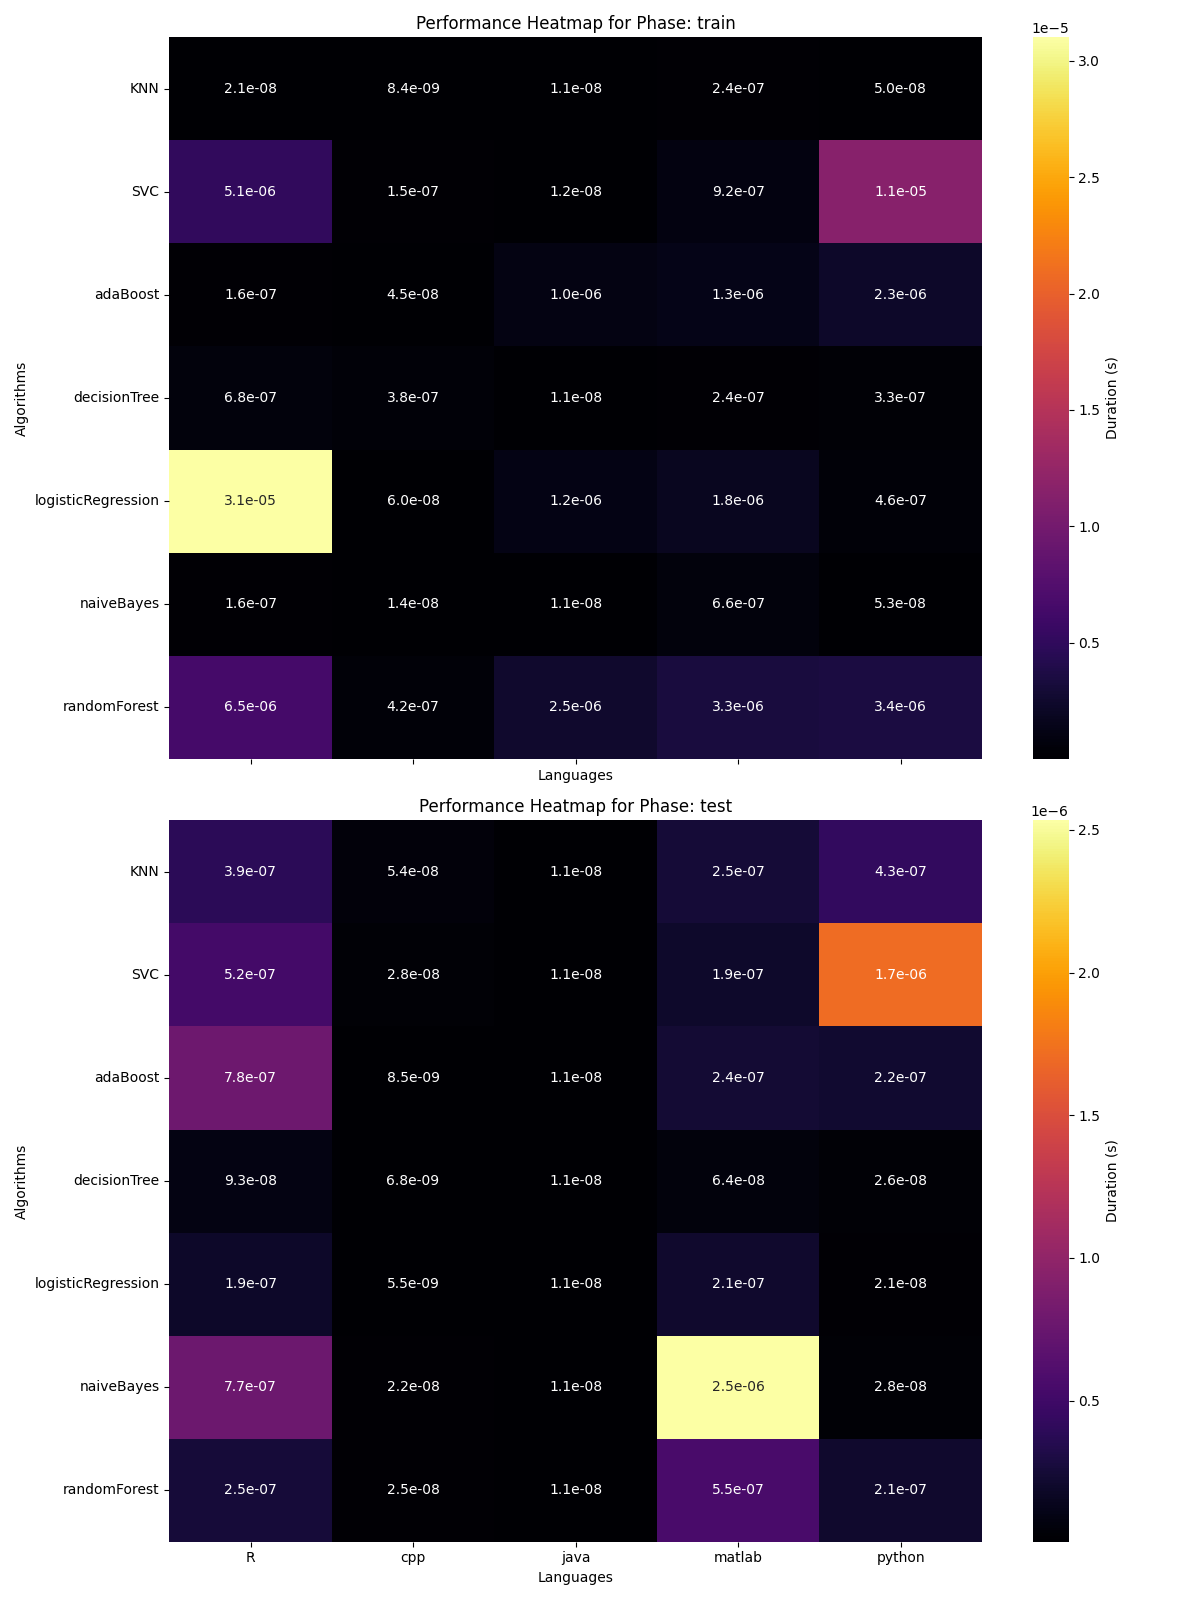
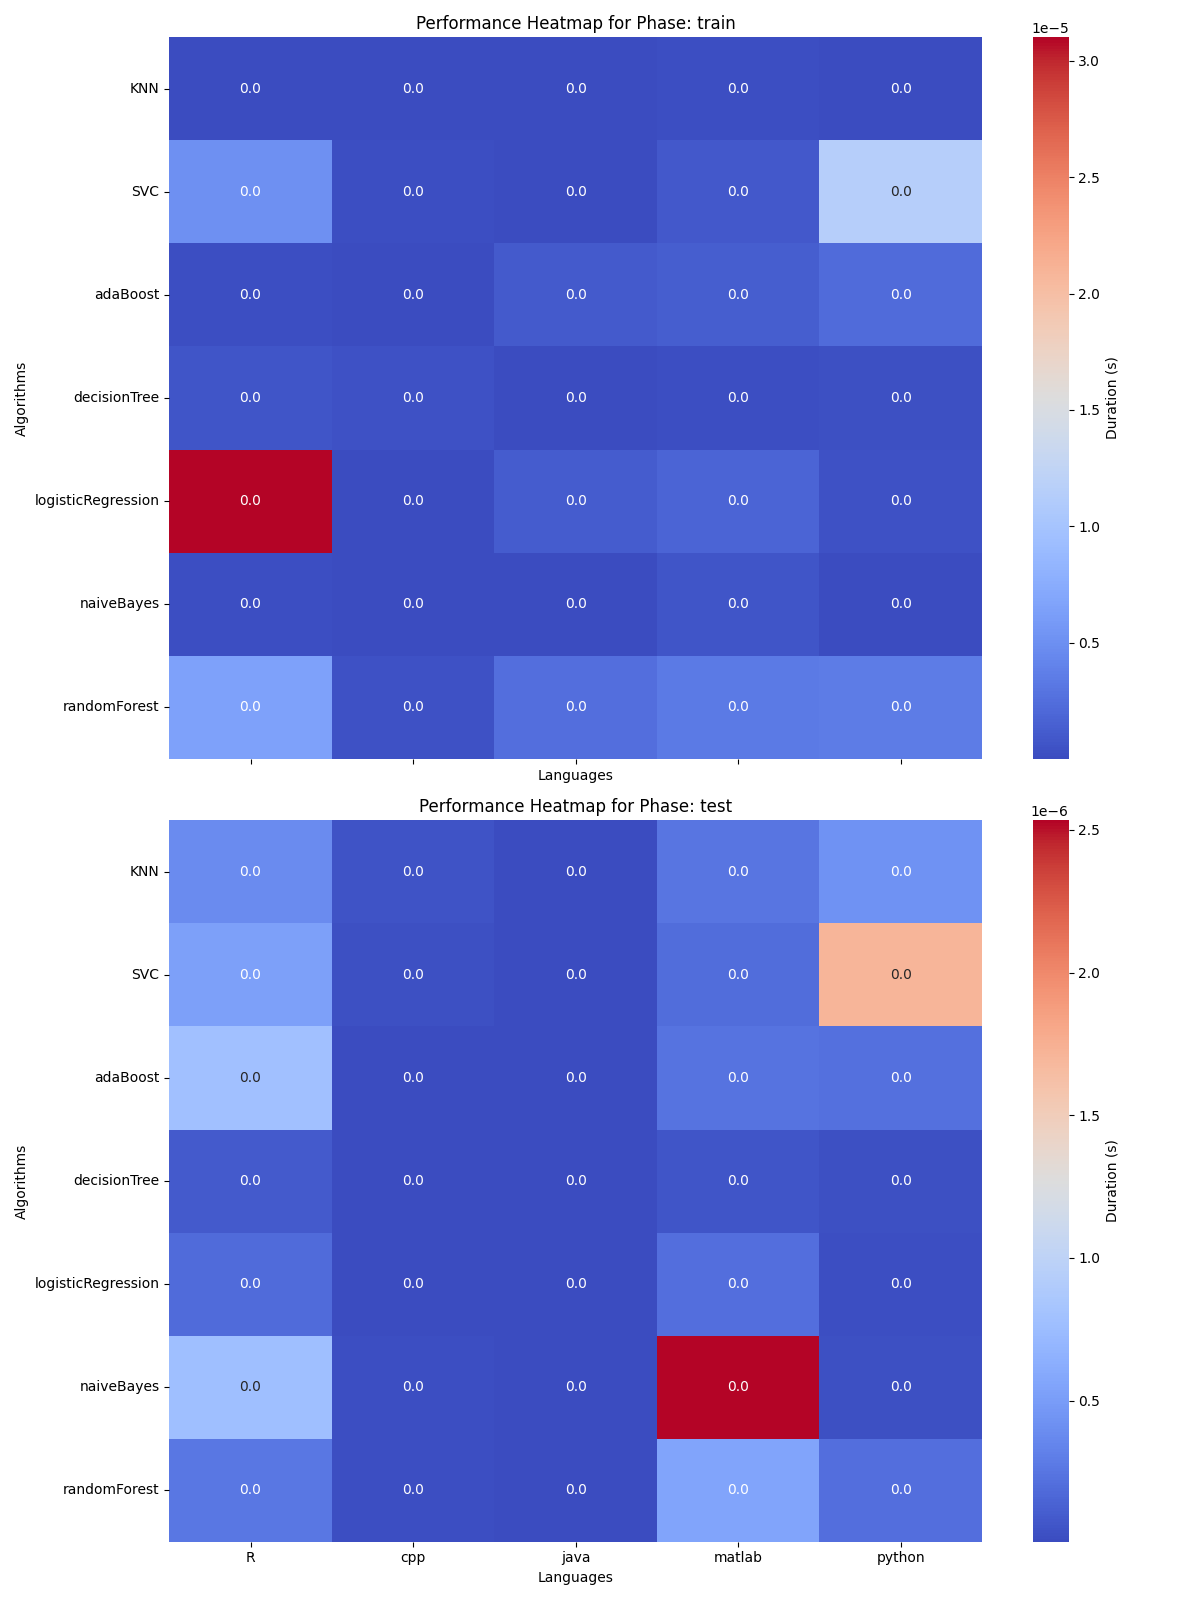
refined plots

diff --git a/src/newHandlePlotForFun.py b/src/newHandlePlotForFun.py
@@ -75,11 +75,19 @@ def plot_performance_heatmap(df, language_col, algorithm_col, duration_col,
     for ax, phase in zip(axes, ['train', 'test']):
         # Filter for the phase
         phase_df = df[df['phase'] == phase]
+
+        # Pivot table for heatmap
         pivot_table = phase_df.pivot_table(values=duration_col, index=algorithm_col, columns=language_col,
                                            aggfunc='mean')
+        pivot_table *= 1000  # Convert seconds to milliseconds
+
+
+
+        #pivot_table_log = np.log10(pivot_table)
 
         # Plot heatmap
-        sns.heatmap(pivot_table, annot=True, fmt=".1e", cmap="inferno", ax=ax, cbar_kws={'label': 'Duration (s)'})
+        sns.heatmap(pivot_table, annot=True, fmt=".1f", cmap="viridis", ax=ax,
+                    cbar_kws={'label': 'Milliseconds'})
 
         # Customize the axis
         ax.set_title(f"Performance Heatmap for Phase: {phase}")
@@ -88,7 +96,7 @@ def plot_performance_heatmap(df, language_col, algorithm_col, duration_col,
 
     plt.tight_layout()
     # Save the plot as an image file
-    plt.savefig(f"graphics/{title}.png")
+    plt.savefig(f"graphics/{title}_log.png")
 
     # Show the plot
     plt.show()
@@ -117,7 +125,7 @@ def plot_correlation_by_phase(df, cpu_energy_col, emissions_col, phase_col, lang
         phase_df = df[df[phase_col] == phase]
 
         sns.scatterplot(x=phase_df[cpu_energy_col], y=phase_df[emissions_col], hue=phase_df[language_col],
-                        palette='tab20', s=100, alpha=0.6, ax=ax)
+                        palette='tab20', s=50, alpha=0.4, ax=ax)
 
         # Aggiunta di una regressione polinomiale (grado 2) opzionale
         sns.regplot(x=phase_df[cpu_energy_col], y=phase_df[emissions_col], scatter=False, color='green', order=2,
@@ -136,7 +144,10 @@ def plot_correlation_by_phase(df, cpu_energy_col, emissions_col, phase_col, lang
 
         ax.set_title(f'{phase} Phase')
         ax.set_xlabel('CPU Energy (Joules)')
-        ax.set_ylabel('Emissions Kg(CO₂)')
+        if emissions_col == 'emissions':
+            ax.set_ylabel('Emissions Kg(CO₂)')
+        if emissions_col == 'duration':
+            ax.set_ylabel('Duration (s)')
         ax.annotate(f'Pearson: {pearson_corr:.2f}', xy=(0.05, 0.95), xycoords='axes fraction', fontsize=10, color='red')
         ax.annotate(f'Spearman: {spearman_corr:.2f}', xy=(0.05, 0.90), xycoords='axes fraction', fontsize=10,
                     color='blue')
@@ -242,14 +253,27 @@ def plot_time_series(df, language, dataset, algorithm, date_col, value_col, phas
     plt.show()
 
 
-def plot_time_series_all_algorithms(df, language, date_col, value_col, phase_col='phase', phase='train'):
-    # Filter the DataFrame based on the selected language and phase
+def plot_time_series_all_algorithms(df, language, date_col, value_col, phase_col='phase', phase='train', dataset="breastCancer"):
+    """
+    Plot time series data for all algorithms for a specific language and dataset in a given phase.
+
+    Parameters:
+    - df: DataFrame containing the data
+    - language: The programming language to filter
+    - dataset: The dataset to filter
+    - date_col: Column name for date/time
+    - value_col: Column name for the values to plot
+    - phase_col: Column name for phase (optional, default is 'phase')
+    - phase: Phase to filter (optional, default is 'test')
+    """
+    # Filter the DataFrame based on the selected language, dataset, and phase
     df_filtered = df[(df['language'] == language) &
+                     (df['dataset'] == dataset) &
                      (df[phase_col] == phase)].copy()  # Create a copy to avoid SettingWithCopyWarning
 
     # Check if filtering resulted in non-empty DataFrame
     if df_filtered.empty:
-        print(f"No data available for language: {language} in phase: {phase}")
+        print(f"No data available for language: {language}, dataset: {dataset} in phase: {phase}")
         return
 
     # Convert the timestamp column to datetime
@@ -289,7 +313,7 @@ def plot_time_series_all_algorithms(df, language, date_col, value_col, phase_col
         plt.plot(df_algo[date_col], df_algo[value_col], marker='o', linestyle='-', color=color,
                  label=f'{algorithm}')
 
-    plt.title(f'Emissions Over Time for All Algorithms in {language} (Phase: {phase})')
+    plt.title(f'Emissions Over Time for All Algorithms in {language} on Dataset {dataset} (Phase: {phase})')
     plt.xlabel('Date')
     plt.ylabel('Emissions (kg CO2)')
     plt.grid(True)
@@ -298,7 +322,7 @@ def plot_time_series_all_algorithms(df, language, date_col, value_col, phase_col
     plt.tight_layout()
 
     # Save the plot as an image file
-    plt.savefig(f'graphics/emissions_time_series_{language}_{phase}.png')
+    plt.savefig(f'graphics/emissions_time_series_{language}_{dataset}_{phase}.png')
 
     # Show the plot
     plt.show()
@@ -345,26 +369,104 @@ def plot_execution_time_by_language(df, language_col, algorithm_col, time_col, t
     plt.show()
 
 
+def plot_time_series_subplot(df, combinations, date_col, value_col, phase_col='phase'):
+    """
+    Plot time series data for multiple combinations in a grid of subplots, handling different scales.
+
+    Parameters:
+    - df: DataFrame containing the data
+    - combinations: List of tuples with (language, dataset, algorithm)
+    - date_col: Column name for date/time
+    - value_col: Column name for the values to plot
+    - phase_col: Column name for phase (optional, default is 'phase')
+    """
+    num_combinations = len(combinations)
+    num_cols = 2  # Number of columns for subplots
+    num_rows = (num_combinations + num_cols - 1) // num_cols  # Calculate number of rows needed
+
+    fig, axes = plt.subplots(nrows=num_rows, ncols=num_cols, figsize=(15, 5 * num_rows), sharex=True)
+    axes = axes.flatten()  # Flatten the 2D array of axes to make indexing easier
+
+    for idx, (language, dataset, algorithm) in enumerate(combinations):
+        # Filter the DataFrame based on the current combination
+        df_filtered = df[(df['language'] == language) &
+                         (df['dataset'] == dataset) &
+                         (df['algorithm'] == algorithm)].copy()  # Create a copy to avoid SettingWithCopyWarning
+
+        if df_filtered.empty:
+            print(f"No data available for language: {language}, dataset: {dataset}, algorithm: {algorithm}")
+            continue
+
+        # Convert the timestamp column to datetime
+        df_filtered[date_col] = pd.to_datetime(df_filtered[date_col], errors='coerce')
+
+        # Drop rows with invalid dates
+        df_filtered = df_filtered.dropna(subset=[date_col])
+
+        # Ensure the value column contains numeric data
+        df_filtered[value_col] = pd.to_numeric(df_filtered[value_col], errors='coerce')
+
+        # Drop rows with invalid or missing values in the value column
+        df_filtered = df_filtered.dropna(subset=[value_col])
+
+        if df_filtered.empty:
+            print(f"No valid data available for language: {language}, dataset: {dataset}, algorithm: {algorithm}")
+            continue
+
+        # Plot the time series
+        ax = axes[idx]
+        for phase in df_filtered[phase_col].unique():
+            df_phase = df_filtered[df_filtered[phase_col] == phase]
+            ax.plot(df_phase[date_col], df_phase[value_col], marker='o', linestyle='-', label=f'{phase} phase')
+
+        ax.set_title(f'{algorithm} in {language} on Dataset {dataset}')
+        ax.set_xlabel('Date')
+        ax.set_ylabel('Emissions (kg CO2)')
+        ax.grid(True)
+        ax.legend(title='Phase')
+
+        # Set individual y-axis limits if necessary
+        y_min, y_max = df_filtered[value_col].min(), df_filtered[value_col].max()
+        ax.set_ylim(y_min, y_max)
+
+    # Remove any unused subplots
+    for ax in axes[num_combinations:]:
+        fig.delaxes(ax)
+
+    plt.tight_layout()
+    plt.xticks(rotation=45)
+
+    # Save the plot as an image file
+    plt.savefig(f'graphics/time_series_subplot.png')
+    plt.show()
+
+
 df = load_dataset('processedDatasets/meanEmissionsNew.csv')
 df_raw = load_dataset('raw_merged_emissions.csv')
 df_clean = remove_outliers(df)
 
-plot_execution_time_by_language_and_algorithm(df, 'language', 'algorithm', 'cpu_energy', 'phase', 'test',
+"""plot_execution_time_by_language_and_algorithm(df, 'language', 'algorithm', 'cpu_energy', 'phase', 'test',
                                               title="CPU energy distribution by language and algorithm (Test)",
                                               excluded_language='None')
 
 plot_execution_time_by_language_and_algorithm(df, 'language', 'algorithm', 'cpu_energy', 'phase', 'train',
                                               title="CPU energy distribution by language and algorithm (Train)",
                                               excluded_language='None')
+"""
+plot_performance_heatmap(df, 'language', 'algorithm', 'duration', 'phase', )
 
-plot_performance_heatmap(df, 'language', 'algorithm', 'cpu_energy', 'phase', )
+"""plot_execution_time_by_dataset(df, 'dataset', 'emissions', 'language')
 
-plot_execution_time_by_dataset(df, 'dataset', 'emissions', 'language')
-
-plot_correlation_by_phase(df, 'cpu_energy', 'emissions', 'phase', 'language', title_prefix="Correlation_by_Phase_emissions")
+plot_correlation_by_phase(df, 'cpu_energy', 'emissions', 'phase', 'language',
+                          title_prefix="Correlation_by_Phase_emissions")
 
 plot_correlation_by_phase(df, 'cpu_energy', 'duration', 'phase', 'language', title_prefix="Correlation_by_Phase_time")
 
+plot_correlation_by_phase(df_raw, 'cpu_energy', 'emissions', 'phase', 'language',
+                          title_prefix="Correlation_by_Phase_emissions_raw")
+
+plot_correlation_by_phase(df_raw, 'cpu_energy', 'duration', 'phase', 'language',
+                          title_prefix="Correlation_by_Phase_time_raw")
 
 plot_time_series(df_raw, 'matlab', 'breastCancer', 'randomForest', 'timestamp', 'cpu_energy')
 
@@ -375,3 +477,7 @@ plot_execution_time_by_language(df, 'language', 'algorithm', 'cpu_energy', 'phas
 plot_execution_time_by_language(df, 'language', 'algorithm', 'cpu_energy', 'phase', "decisionTree",
                                 "CPU energy "
                                 "distribution by language")
+
+
+
+plot_time_series_all_algorithms(df_raw, 'cpp', 'timestamp', 'emissions')"""

diff --git a/src/utils.py b/src/utils.py
@@ -166,3 +166,58 @@ def median_group_by(df: pd.DataFrame, group_by: str, columns: list[str]):
     result_df = df.groupby([group_by, "phase"])[list(columns)].median().reset_index()
 
     return result_df
+
+
+def sum_metrics_per_algorithm(df):
+    # Verifica che il dataframe contenga le colonne richieste
+    required_columns = {'algorithm', 'phase', 'duration', 'energy_consumed', 'emissions', 'emissions_rate',
+                        'cpu_energy'}
+    if not required_columns.issubset(df.columns):
+        raise ValueError(f"DataFrame deve contenere le colonne: {required_columns}")
+
+    # Filtra i dati per fase "train" e "test"
+    df_train = df[df['phase'] == 'train']
+    df_test = df[df['phase'] == 'test']
+
+    # Raggruppa i dati per algoritmo e calcola la somma per ciascuna metrica
+    sum_train = df_train.groupby('algorithm').sum().reset_index()
+    sum_test = df_test.groupby('algorithm').sum().reset_index()
+
+    # Unisci i risultati per fase di train e test
+    sum_train.rename(columns=lambda x: f'train_{x}', inplace=True)
+    sum_test.rename(columns=lambda x: f'test_{x}', inplace=True)
+
+    # Merge dei risultati su "algorithm"
+    result = pd.merge(sum_train, sum_test, left_on='train_algorithm', right_on='test_algorithm')
+
+    # Rimuovi colonne duplicate dopo il merge
+    result.drop(columns=['test_algorithm'], inplace=True)
+
+    return result
+
+
+def sum_metrics_per_language(df):
+    # Verifica che il dataframe contenga le colonne richieste
+    required_columns = {'algorithm', 'phase', 'duration', 'energy_consumed', 'emissions', 'emissions_rate',
+                        'cpu_energy'}
+    if not required_columns.issubset(df.columns):
+        raise ValueError(f"DataFrame deve contenere le colonne: {required_columns}")
+
+    # Raggruppa per algoritmo e somma i valori delle metriche per ogni algoritmo
+    summed_df = df.groupby('algorithm').sum().reset_index()
+
+    return summed_df
+
+def sum_metrics_per_language_and_algorithm(df):
+    # Verifica che il dataframe contenga le colonne richieste
+    required_columns = {'language', 'algorithm', 'duration', 'energy_consumed', 'emissions', 'emissions_rate', 'cpu_energy'}
+    if not required_columns.issubset(df.columns):
+        raise ValueError(f"DataFrame deve contenere le colonne: {required_columns}")
+
+    # Rimuovi le colonne 'dataset' e 'phase'
+    df = df.drop(columns=['dataset', 'phase'], errors='ignore')
+
+    # Raggruppa per linguaggio e algoritmo e somma i valori delle metriche per ogni combinazione
+    summed_df = df.groupby(['language', 'algorithm']).sum().reset_index()
+
+    return summed_df

diff --git a/src/handleCsv.py b/src/handleCsv.py
@@ -1,6 +1,6 @@
 import pandas as pd
 from utils import mean_unique_quadruplets, mean_group_by, saveCsv, plot, median_unique_quadruplets, retrive_data, \
-    median_group_by
+    median_group_by, sum_metrics_per_language, sum_metrics_per_language_and_algorithm
 
 output_csv_name = 'meanEmissionsNew.csv'
 columns = ["duration", "energy_consumed", "emissions", "emissions_rate", "cpu_power", "cpu_energy"]
@@ -18,6 +18,8 @@ group_by_dataset = mean_group_by(meanData, "dataset", columns)
 group_by_language = mean_group_by(meanData, "language", columns)
 
 saveCsv(group_by_language, "mean_group_by_language.csv")
+saveCsv(group_by_algorithm, "mean_group_by_algorithm.csv")
+saveCsv(group_by_dataset, "mean_group_by_dataset.csv")
 
 print("\nMedia raggruppata per 'dataset':")
 print(group_by_dataset)
@@ -35,3 +37,12 @@ group_by_dataset = median_group_by(medianData, "dataset", columns)
 group_by_language = median_group_by(medianData, "language", columns)
 
 saveCsv(group_by_language, "median_group_by_language.csv")
+saveCsv(group_by_algorithm, "median_group_by_algorithm.csv")
+saveCsv(group_by_dataset, "median_group_by_dataset.csv")
+
+dfsum = pd.read_csv("processedDatasets/mean_group_by_algorithm.csv")
+sumalgo = sum_metrics_per_language(dfsum)
+
+sumalgolang = sum_metrics_per_language_and_algorithm(pd.read_csv("processedDatasets/meanEmissionsNew.csv"))
+
+sumalgolang.to_csv("processedDatasets/sum_metrics_per_language_and_algo.csv")
